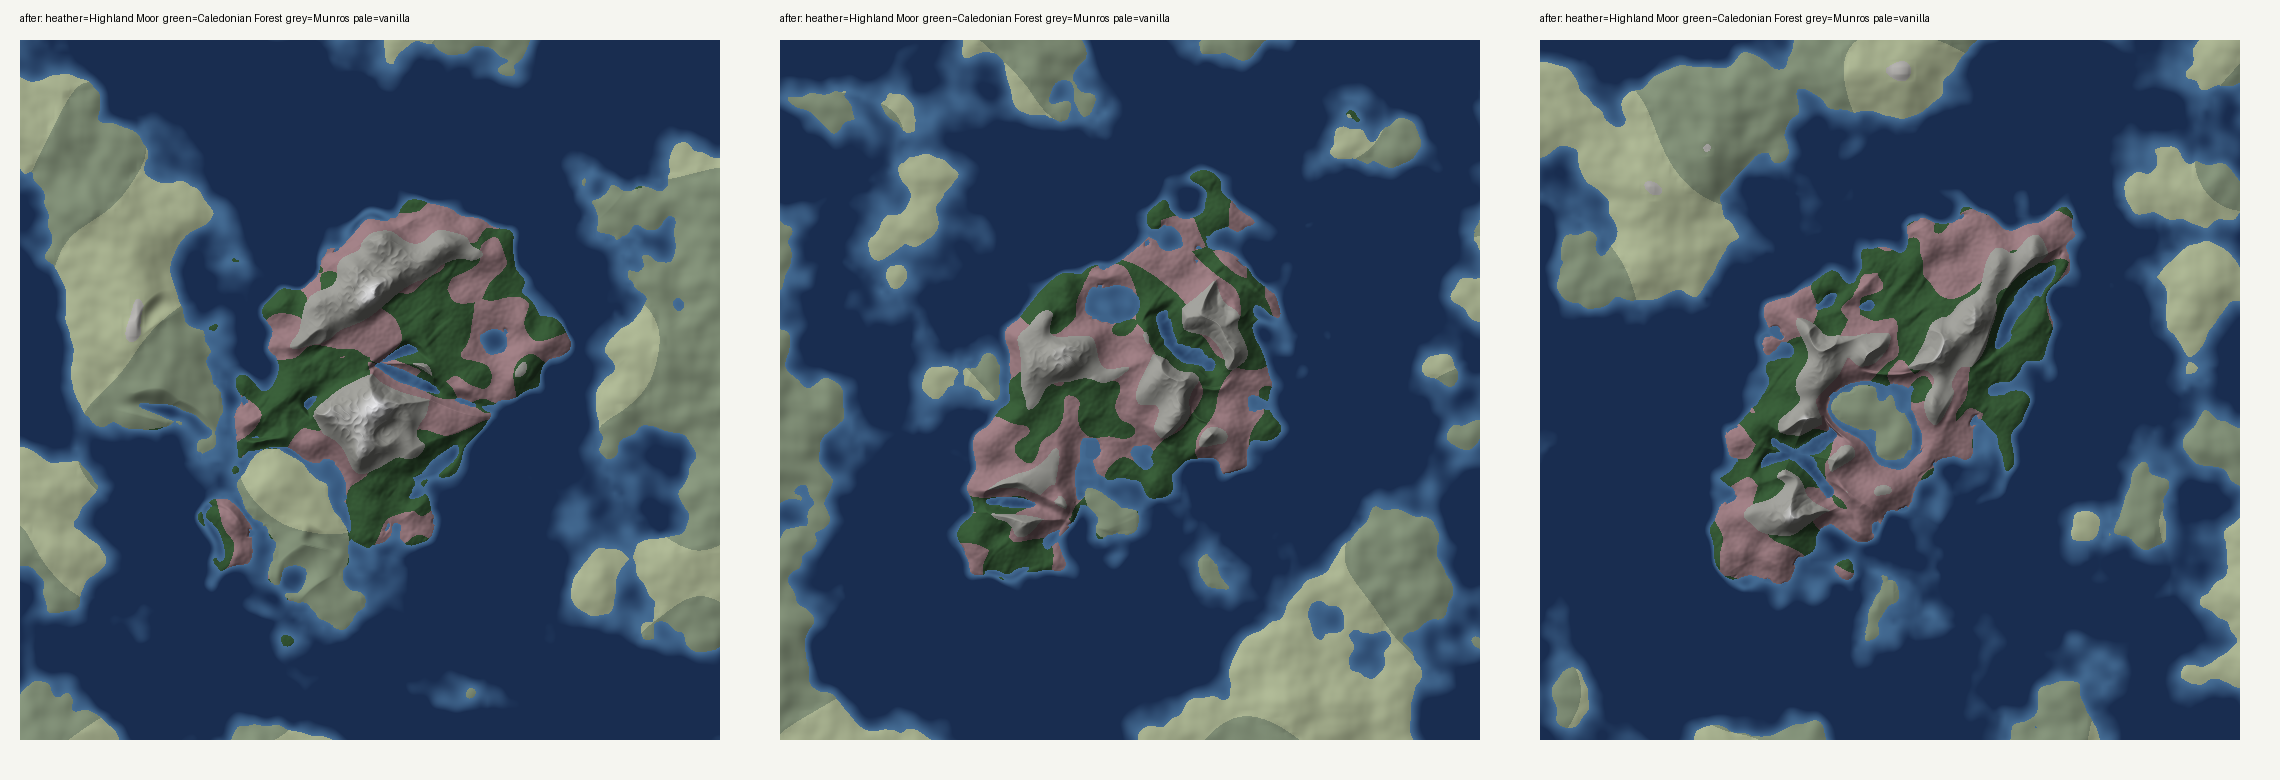
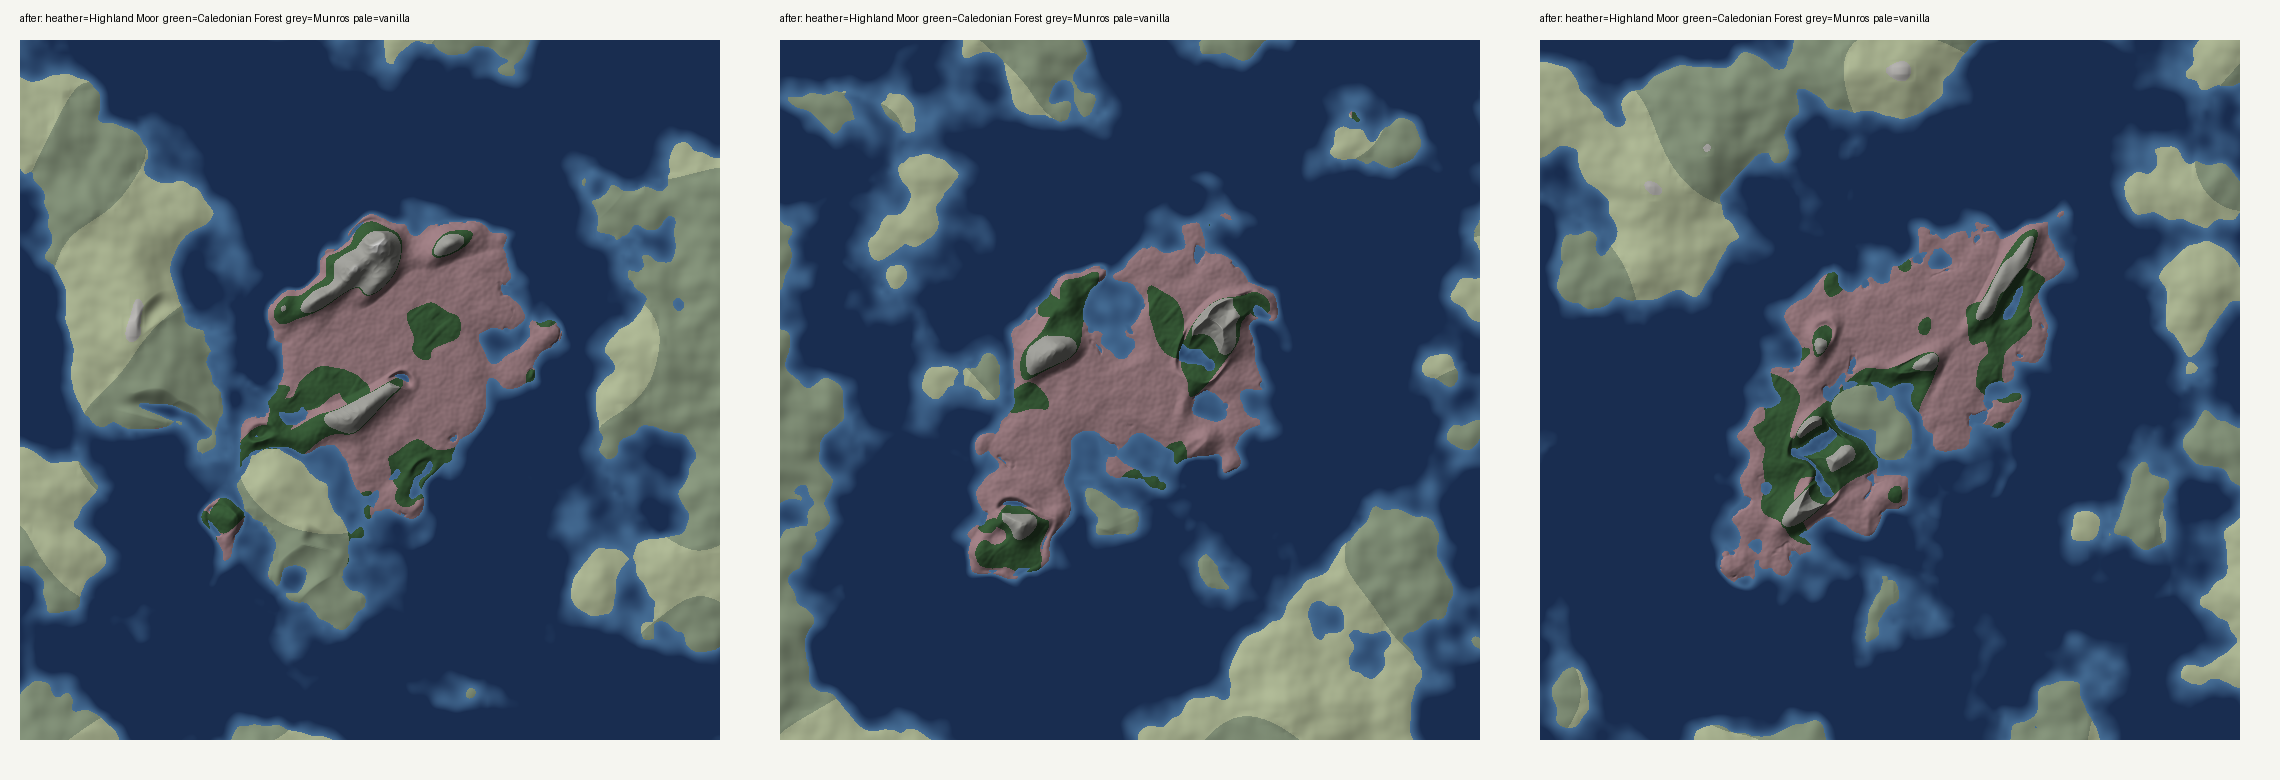
Make the moor the dominant, flat lowland of the Highlands
Feedback from the first in-game run: too little moor, and too hilly. The
island is now a flat ~14 m shelf with a gentle coastal ramp; fewer, narrower
massifs rise from it, and their lower slopes are Caledonian Forest rather than
Moor. Across five preview seeds: ~70% moor (median slope ~4 deg), ~20% forest,
~10% Munros. Moor shrubs thinned so it reads as open grazing land.

Claude-Session: https://claude.ai/code/session_01WX8uTSD46KhJ1vZMBfXv3F

diff --git a/src/Scotheim/Terrain/HighlandsTerrain.cs b/src/Scotheim/Terrain/HighlandsTerrain.cs
@@ -51,6 +51,9 @@ namespace Scotheim.Terrain
         /// <summary>Base altitude below which vanilla assigns Ocean.</summary>
         public const float OceanThreshold = -26f;
 
+        /// <summary>Base altitude of the island's lowland shelf, where the moor is.</summary>
+        const float LowlandHeight = 14f;
+
         /// <summary>
         /// Vanilla ground above this (its land and the water just off its beaches) is never raised
         /// or reassigned; the landmass only rises out of water deeper than this.
@@ -139,13 +142,24 @@ namespace Scotheim.Terrain
             // Lowland interior at ~28 m, falling to the coast around d = 1, with massifs rising out
             // of it in ridges along the grain. Massifs fade out towards the coast so it doesn't
             // break into cliffs.
-            float profile = SmoothStep(1.15f, 0.3f, d);
-            float u = x * alongX + y * alongY, v = x * acrossX + y * acrossY;
-            float ridges = Noise.Fbm2(u / 1400f, v / 650f, seed + 63);
-            float massif = SmoothStep(-0.45f, 0.4f, ridges) * profile;
-            float island = -34f + 62f * (float)Math.Pow(profile, 0.7) + (s.LandmassCoreHeight - 28f) * massif;
+            // Long, gentle coastal ramp up to a flat lowland shelf (~14 m) that covers most of the interior.
+            float shelf = SmoothStep(1.2f, 0.5f, d);
+            float lowland = -34f + (LowlandHeight + 34f) * shelf;
+            // Massifs: separate NE-SW ridges standing out of the lowland, kept off the coast.
+            float massif = MassifWeight(x, y, d);
+            float island = lowland + (s.LandmassCoreHeight - LowlandHeight) * massif;
             float blended = Lerp(vanillaAltitude, island, weight);
             return Math.Max(vanillaAltitude, blended);
+        }
+
+        /// <summary>0 on the lowland shelf, rising to 1 on the body of a hill massif.</summary>
+        float MassifWeight(float x, float y, float coastDistance)
+        {
+            float profile = SmoothStep(1.1f, 0.4f, coastDistance);
+            if (profile <= 0f) return 0f;
+            float u = x * alongX + y * alongY, v = x * acrossX + y * acrossY;
+            float ridges = Noise.Fbm2(u / 1400f, v / 650f, seed + 63);
+            return SmoothStep(s.MassifThreshold - 0.2f, s.MassifThreshold + 0.25f, ridges) * profile;
         }
 
         /// <summary>
@@ -158,11 +172,14 @@ namespace Scotheim.Terrain
             if (LandWeight(x, y) <= 0.5f) return HighlandBiome.None;
             if (carvedBaseAltitude > MountainThreshold) return HighlandBiome.Munros;
 
-            // Caledonian pinewood survives in the glens and in patches on sheltered lower ground.
+            // Moor is the open lowland shelf. Caledonian pinewood clothes the lower hill slopes below
+            // the Munros, fills the glens, and survives in a few patches out on the moor.
+            float plain = EllipseDistance(x, y);
+            if (MassifWeight(x, y, CoastDistance(x, y, plain)) > 0.3f) return HighlandBiome.Forest;
             float floorNoise;
             float glen = GlenShape(x, y, out floorNoise);
             float patch = Noise.Fbm2(x / 650f, y / 650f, seed + 71);
-            float shelter = (1f - glen) * 0.35f;
+            float shelter = (1f - glen) * 0.25f;
             return patch + shelter > forestThreshold ? HighlandBiome.Forest : HighlandBiome.Moor;
         }
 

diff --git a/src/Scotheim/Plugin.cs b/src/Scotheim/Plugin.cs
@@ -47,6 +47,7 @@ namespace Scotheim
             BindFloat("2 - Landmass", "Length", 500f, 5000f, s => s.LandmassLength, (s, v) => s.LandmassLength = v, "Half-length along the grain (m).");
             BindFloat("2 - Landmass", "Width", 500f, 5000f, s => s.LandmassWidth, (s, v) => s.LandmassWidth = v, "Half-width across the grain (m).");
             BindFloat("2 - Landmass", "CoreHeight", 60f, 250f, s => s.LandmassCoreHeight, (s, v) => s.LandmassCoreHeight = v, "Interior height before glens (m above sea). Above 50 becomes Munros.");
+            BindFloat("2 - Landmass", "MassifThreshold", -0.5f, 0.5f, s => s.MassifThreshold, (s, v) => s.MassifThreshold = v, "Higher = fewer, smaller hill massifs (Munros) and more open moor.");
             BindFloat("2 - Landmass", "CoastRoughness", 0f, 0.6f, s => s.CoastRoughness, (s, v) => s.CoastRoughness = v, "0 = smooth ellipse; higher = more headlands, bays and islets.");
             BindFloat("2 - Landmass", "ForestCover", 0f, 1f, s => s.ForestCover, (s, v) => s.ForestCover = v, "Rough fraction of ground below the Munros that is Caledonian Forest rather than Moor.");
 

diff --git a/src/Scotheim/Terrain/HighlandsSettings.cs b/src/Scotheim/Terrain/HighlandsSettings.cs
@@ -26,8 +26,10 @@ namespace Scotheim.Terrain
         public float LandmassCoreHeight = 125f;
         /// <summary>How ragged the coastline is (noise on the ellipse distance).</summary>
         public float CoastRoughness = 0.4f;
+        /// <summary>Higher = fewer, smaller massifs (Munros) and more open moor. Noise units, roughly -0.4..0.4.</summary>
+        public float MassifThreshold = 0.25f;
         /// <summary>Rough fraction of land below the Munros given to Caledonian Forest rather than Moor.</summary>
-        public float ForestCover = 0.35f;
+        public float ForestCover = 0.08f;
 
         // Glens: glacial troughs carved into the base height field, so biome assignment follows them.
         public float GlenStrength = 1f;
@@ -61,7 +63,7 @@ namespace Scotheim.Terrain
         public float CorrieSpread = 35f;
 
         // Moorland (Meadows).
-        public float MoorRollAmplitude = 5f;
+        public float MoorRollAmplitude = 2f;
         public float MoorRollScale = 320f;
         public float HummockAmplitude = 1.2f;
         public float HummockScale = 40f;

diff --git a/README.md b/README.md
@@ -12,8 +12,8 @@ A BepInEx mod for Valheim that adds a Scottish Highlands landmass: a new island 
 
 | Biome | Where | Terrain | Vegetation | Weather |
 |---|---|---|---|---|
-| **Highland Moor** | Open ground below 50 m | Rolling relief, hummocks, lochans | Heath shrubs, birch copses, erratic boulders, cloudberries, rare standing stones | Mostly heath-clear and mist, some drizzle |
-| **Caledonian Forest** | Glen floors and sheltered patches on low ground | Drumlins aligned NE–SW, hummocky moraine | Open Scots pine with birch, blaeberry and raspberry; no spruce; rare ruined shielings | Forest mist, some rain |
+| **Highland Moor** | The open lowland shelf (median slope ~4°) | Rolling relief, hummocks, lochans | Heath shrubs, birch copses, erratic boulders, cloudberries, rare standing stones | Mostly heath-clear and mist, some drizzle |
+| **Caledonian Forest** | Lower hill slopes, glen floors, a few patches on the moor | Drumlins aligned NE–SW, hummocky moraine | Open Scots pine with birch, blaeberry and raspberry; no spruce; rare ruined shielings | Forest mist, some rain |
 | **Munros** | Base height above 50 m | Rounded domes, NE-facing corries, soft-capped summits | Crags and scree; a few stunted pines and birches below ~70 m | Freezing snow and storms, with misty breaks |
 
 Each biome borrows a vanilla height function and ground texture (Moor uses Plains' heath texture, which reads more like heather than Meadows' grass). EWD's `nature` setting only affects farming, bees and footsteps: the Moor farms like the Plains (barley, flax), the forest like the Black Forest. Vegetation comes entirely from `expand_vegetation_scotheim.yaml`, so no vanilla plants leak in. There are no ores and no creatures yet; those are the next phase.
@@ -23,7 +23,7 @@ The landscape between them:
 - **Glens** are U-shaped troughs trending NE–SW, the Great Glen / Caledonian grain at about 040°. Each glen widens with its depth so walls stay near 35°.
 - **Ribbon lochs** form where glen floors drop below sea level.
 - **Sea lochs** form where glens reach the coast.
-- The island is an ellipse along the grain, 4 × 2.3 km by default, with a ragged coast and NE–SW massifs rising from a ~28 m lowland. It comes to about 5 km² of new land, split roughly a third per biome.
+- The island is an ellipse along the grain, 4 × 2.3 km by default, with a ragged coast. Most of it is a flat lowland shelf (~14 m) of open moor; a few separate NE–SW hill massifs rise out of it, wooded on their lower slopes. It comes to about 4–5 km² of new land: roughly 70% moor, 20% forest and 10% Munros (set by `MassifThreshold`).
 
 ## How it fits into the world
 
@@ -59,6 +59,7 @@ Still unverified:
 
 - **New worlds only.** Every player and the server need the mod with identical settings; the log prints a `signature` to compare. EWD syncs its YAML from the server.
 - **No creatures or ores yet.** With custom biomes, nothing spawns on the island until the enemies and materials phase.
+- **No grass yet.** Grass is EWD *clutter*, which custom biomes don't get automatically; it needs clutter entries using vanilla's clutter names.
 - **One water plane.** Valheim has a single sea level, so every loch sits at sea level.
 - **Munros snow.** Mountain ground texture is snow-covered everywhere, not only on the tops.
 - **Steep ground.** 0.2–1.7% of Highland land is steeper than 40° in the previews, mostly where the island meets vanilla islets.
